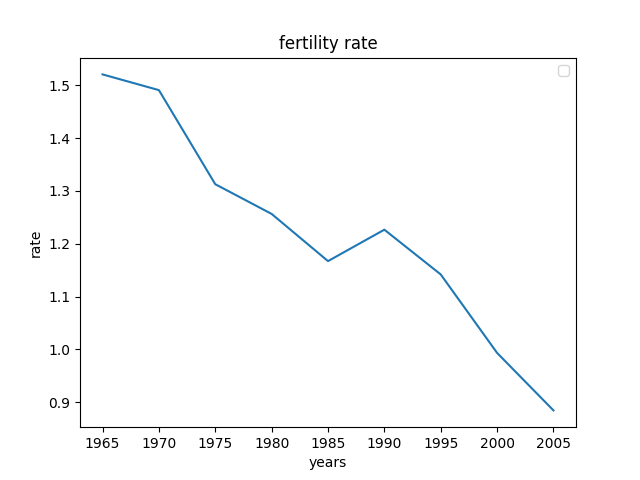
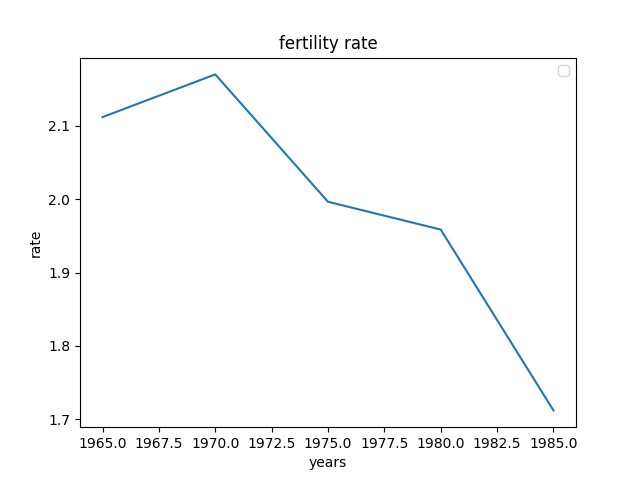
Add changes to first lab

diff --git a/Solve.py b/Solve.py
@@ -9,7 +9,7 @@ class Plot:
         self.yname = yname
         self.plots = []
         self.plot = pyplot
-        self.plot.clf()
+        self.clear()
         self.plot.title(self.title)
         self.plot.xlabel(self.xname)
         self.plot.ylabel(self.yname)
@@ -19,7 +19,7 @@ class Plot:
         self.plot.plot(x, y, label=label)
 
     def restore(self):
-        self.plot.clf()
+        self.clear()
         self.plot.title(self.title)
         self.plot.xlabel(self.xname)
         self.plot.ylabel(self.yname)
@@ -35,16 +35,8 @@ class Plot:
         self.plot.legend()
         self.plot.savefig(name)
 
-
-def get_row(file, country_code, year):
-    with open(file, newline='') as csv_file:
-        reader = csv.reader(csv_file, delimiter=';')
-        for row in reader:
-            if row[4] == country_code and row[5] == year:
-                return list(map(lambda x: float(x.replace(',', '.')
-                                                if x != '-'
-                                                else 0) * 1000,
-                                row[6:]))
+    def clear(self):
+        self.plot.clf()
 
 
 class Solver:
@@ -54,27 +46,44 @@ class Solver:
         self.males_file = "males_2005.csv"
         self.both_file = "both.csv"
 
+    @staticmethod
+    def process_data(processing_year_previous, processing_year_current, do_round=True):
+        coefficients = [1]
+        ages = [0]
+        for i in range(1, len(processing_year_current)):
+            if processing_year_current[i] > processing_year_previous[i - 1]:
+                # kind of error in data, just take previous result
+                coefficients.append(coefficients[-1])
+            else:
+                coefficients.append(processing_year_current[i] / processing_year_previous[i - 1])
+            if do_round:
+                coefficients = list(map(lambda x: round(x, 3), coefficients))
+            ages.append(ages[-1] + 5)
+        return ages, coefficients
+
+    @staticmethod
+    def get_row(file, country_code, year):
+        with open(file, newline='') as csv_file:
+            reader = csv.reader(csv_file, delimiter=';')
+            for row in reader:
+                if row[4] == country_code and row[5] == year:
+                    return list(map(lambda x: int(float(x.replace(',', '')
+                                                    if x != '-'
+                                                    else 0) * 1000),
+                                    row[6:]))
+
     def survival_rate(self, do_plot=True, do_round=True):
-
-        def process_data(processing_year_2000, processing_year_2005, do_round=True):
-            coefficients = [1]
-            ages = [0]
-            for i in range(1, len(processing_year_2005)):
-                coefficients.append(processing_year_2005[i] / processing_year_2000[i - 1])
-                if do_round:
-                    coefficients = list(map(lambda x: round(x, 3), coefficients))
-                ages.append(ages[i - 1] + 5)
-            return ages, coefficients
-
-        year_2005 = '2005'
-        year_2000 = '2000'
-        females_2005 = get_row(self.females_file, self.rf_code, year_2005)
-        females_2000 = get_row(self.females_file, self.rf_code, year_2000)
-        males_2005 = get_row(self.males_file, self.rf_code, year_2005)
-        males_2000 = get_row(self.males_file, self.rf_code, year_2000)
+        year = '2005'
+        previous_year = '2000'
+        females_2000 = self.get_row(self.females_file, self.rf_code, previous_year)
+        females_2005 = self.get_row(self.females_file, self.rf_code, year)
+        males_2000 = self.get_row(self.males_file, self.rf_code, previous_year)
+        males_2005 = self.get_row(self.males_file, self.rf_code, year)
         plot = Plot("survival rate", "age", "coeff")
-        ages, males_survival_2005 = process_data(males_2000, males_2005, do_round)
-        ages, females_survival_2005 = process_data(females_2000, females_2005, do_round)
+
+        ages, males_survival_2005 = self.process_data(males_2005, males_2000, do_round)
+        ages, females_survival_2005 = self.process_data(females_2005, females_2000, do_round)
+
         if do_plot:
             plot.add(ages, females_survival_2005, "females rate")
             plot.add(ages, males_survival_2005, "males rate")
@@ -88,24 +97,32 @@ class Solver:
         # 1: 20-24, 2: 25-29, 3: 30-34, 4: 35-39 (in csv file group number shifts by 3: 1-4 -> 4-7)
         # 5 years ago 2, 3, 4 woman categories was in 1, 2, 3
         # and give about 3/4 of births, so we need to count it too
-        # and so on: 10, 15 years ago
-        # so we can count fertility starting from 1965
+        # and so on: 10, 15 years ago and also in future: +5, +10, +15 years
+        # so we can count fertility starting from 1965 to 1990
         females_cnt = []
-        births = [0 for _ in range(9)]
+        fertility_years = range(1965, 1990, 5)
+        births = [0 for _ in range(len(fertility_years))]
         years = []
-        for i, fertility_year in enumerate(range(1965, 2010, 5)):
-            first_in = 4  # first included group: 20-24 years (same for all years)
-            last_in = 5  # the group after last included: changes every step
+        for i, fertility_year in enumerate(fertility_years):
             years.append(fertility_year)
             # sum of women in all included categories
-            females_cnt.append(sum(get_row(self.females_file, self.rf_code, str(fertility_year))[4:8]))
+            females_cnt.append(sum(self.get_row(self.females_file, self.rf_code, str(fertility_year))[4:8]))
+            first_in = 4  # first included group: 20-24 years (same for all years)
+            last_in = 5  # the group after last included: changes every step
             for included_year in range(fertility_year - 15, fertility_year + 5, 5):
-                births[i] += get_row(self.both_file, self.rf_code, str(included_year))[0] * (last_in - first_in) / 4
+                births[i] += self.get_row(self.both_file, self.rf_code, str(included_year))[0] \
+                             * (last_in - first_in) / 4
                 last_in += 1
+            first_in = 5
+            last_in = 8
+            for included_year in range(fertility_year + 5, fertility_year + 15, 5):
+                births[i] += self.get_row(self.both_file, self.rf_code, str(included_year))[0] \
+                             * (last_in - first_in) / 4
+                first_in += 1
 
         print(females_cnt)
         print(births)
-        fertility = [y / x for x, y in zip(females_cnt, births)]
+        fertility = [x / y for x, y in zip(births, females_cnt)]
         if do_plot:
             plot = Plot("fertility rate", "years", "rate")
             plot.add(years, fertility)
@@ -116,51 +133,77 @@ class Solver:
     def birth_rate(self, do_plot=True):
         females_birth = []
         males_birth = []
+        both_birth = []
         years = []
         for year in range(1950, 2010, 5):
-            females_birth.append(get_row(self.females_file, self.rf_code, str(year))[0])
-            males_birth.append(get_row(self.males_file, self.rf_code, str(year))[0])
+            females_birth.append(self.get_row(self.females_file, self.rf_code, str(year))[0])
+            males_birth.append(self.get_row(self.males_file, self.rf_code, str(year))[0])
+            both_birth.append(self.get_row(self.both_file, self.rf_code, str(year))[0])
             years.append(year)
-        print(females_birth)
-        print(males_birth)
-        birth_rate = [x / y for x, y in zip(males_birth, females_birth)]
+        # print(females_birth)
+        # print(males_birth)
+        get_rate = lambda l1, l2: [x / y for x, y in zip(l1, l2)]
+        birth_rate = get_rate(males_birth, females_birth)
         if do_plot:
             plot = Plot("birth rate", "year", "males/females")
             plot.add(years, birth_rate)
-            # plot.show()
             plot.save("results/birth_rate.png")
+            # del plot
+            # plot = Plot("birth rate", "year", "rate")
+            # plot.add(years, get_rate(males_birth, both_birth), "males/both")
+            # plot.add(years, get_rate(females_birth, both_birth), "females/both")
+            # plot.show()
         return birth_rate
 
     def convert_coef(self):
         convert = lambda lst: [x ** 0.2 for x in lst]
         fertility = convert(self.fertility_rate(False))
-        print(f"fertility coef:\n{fertility}")
-        survival = self.survival_rate(False, False)
+        # print(f"fertility coef:\n{fertility}")
+        survival = self.survival_rate(do_plot=False, do_round=False)
         survival_man = convert(survival[1])
         survival_women = convert(survival[2])
-        print(f"survival:\nman: {survival_man}\nwomen: {survival_women}")
-        return fertility[-1], survival_man[-1], survival_women[-1]
+        birth_rate = convert(self.birth_rate(False))
+        # print(f"survival:\nman: {survival_man}\nwomen: {survival_women}")
+        return fertility[-1], birth_rate[-1], survival_man, survival_women
 
-    def prognosis(self):
-        fertility, survival_man, survival_women = self.convert_coef()
-        birth_rate = self.birth_rate(False)[-1]
-        prognose_people = [get_row(self.both_file, self.rf_code, '2005')]
-
+    def prognosis(self, do_plot=True):
+        fertility, birth_rate, survival_man, survival_women = self.convert_coef()
+        print(f"fertility: {fertility}\nbirth: {birth_rate}\nman: {survival_man}\nwomen: {survival_women}")
+        prognose_people = [list(map(lambda x: int(x/5), self.get_row(self.both_file, self.rf_code, '2005')))]
         get_women_cnt = lambda all_people: birth_rate * all_people / (birth_rate + 1)
         get_man_cnt = lambda all_people: all_people - get_women_cnt(all_people)
-
-        for year in range(2006, 2106):
+        ages = range(5, 105, 5)
+        years = range(2006, 2106)
+        for _ in years:
             previous_year = prognose_people[-1]
             current_year_prognose = [0]
-            for age in range(5, 105, 5):
-                previous_year_people_previous_age = previous_year[age//5-1]
-                current_year_prognose.append(
-                    get_man_cnt(previous_year_people_previous_age) * survival_man +
-                    get_women_cnt(previous_year_people_previous_age) * survival_women
-                )
-            current_year_prognose[0] = get_women_cnt(sum(current_year_prognose[4:8]))*fertility
+            for i, age in enumerate(ages):
+                previous_year_people_previous_age = previous_year[age // 5 - 1]
+                current_year_prognose.append(int(
+                    get_man_cnt(previous_year_people_previous_age) * survival_man[i] +
+                    get_women_cnt(previous_year_people_previous_age) * survival_women[i]
+                ))
+            current_year_prognose[0] = int(get_women_cnt(sum(current_year_prognose[4:8])) * fertility)
             prognose_people.append(current_year_prognose)
 
+        if do_plot:
+            plot = Plot("russian population", "years", "people count")
+            plot.add(years, [sum(x) for x in prognose_people[1:]])
+            plot.save("results/population100.png")
+            plot.show()
+            del plot
+
+            plot = Plot("survival rates", "ages", "people")
+            rates = []
+            for i in range(1, len(prognose_people)):
+                rates.append(self.process_data(prognose_people[i - 1], prognose_people[i]))
+
+            for i, year in enumerate(years):
+                if i % 10:
+                    continue
+                plot.add(*rates[i], f"people {year}")
+            plot.save("results/survival_rate_prognose.png")
+            plot.show()
         return prognose_people
 
     def solve(self):
